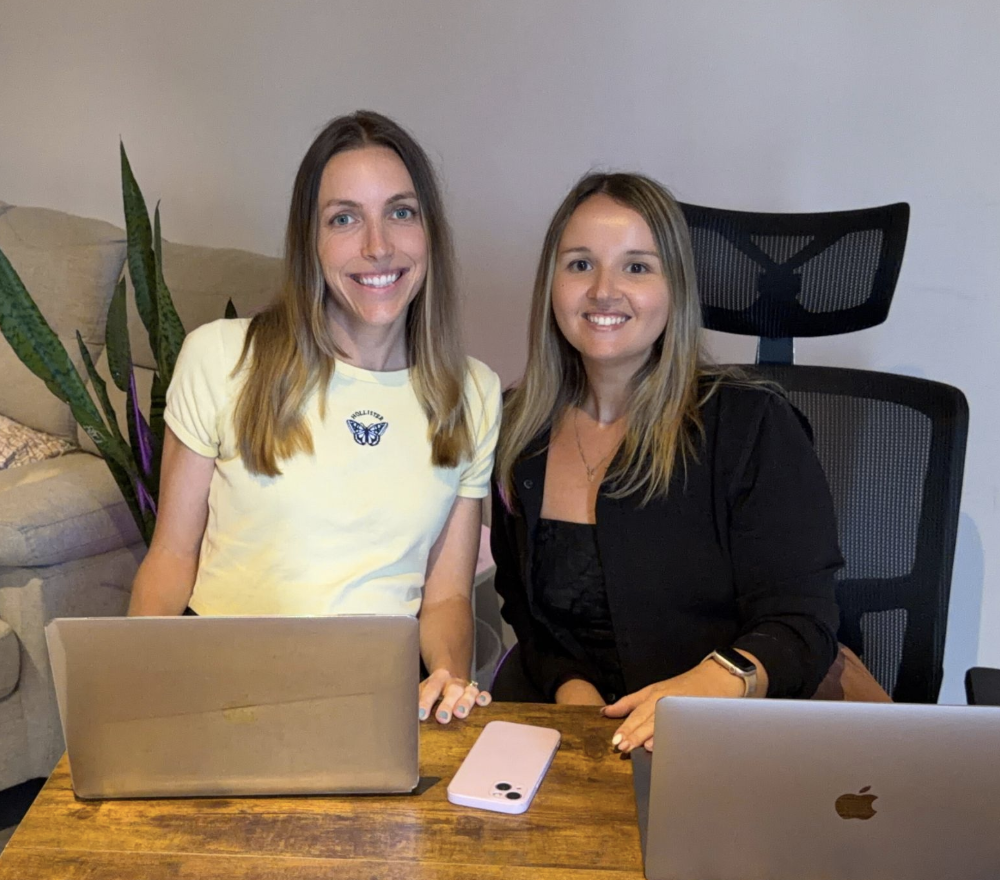
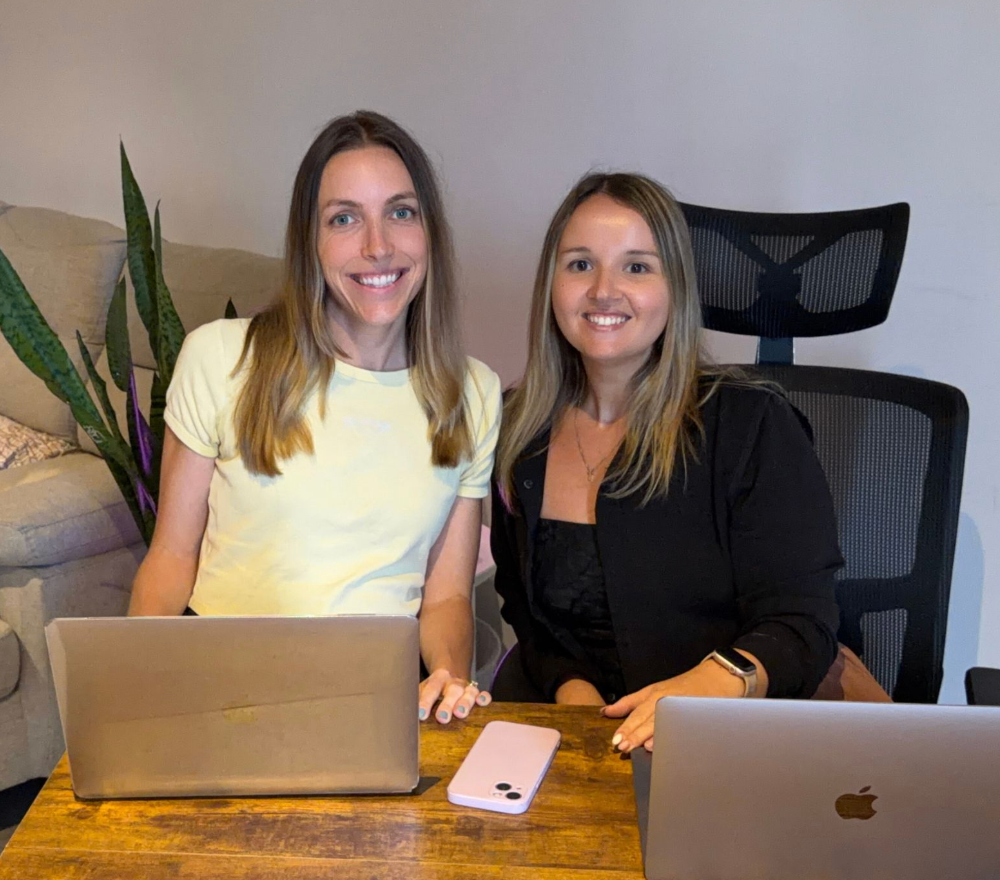
Add financial pre-qualification to lead capture, update hero cards, new founders photo
- Add financial pre-qualification section to /features/lead-capture with lead cards, 4 detail cards, and U.S.-only badge
- Replace 3-tier lead scoring with 2D intent + affordability matrix (3x3 grid)
- Update homepage hero lead cards with dual badges (intent + financial)
- Remove hero form embed snippet
- Update founders photo

diff --git a/app/features/lead-capture/page.tsx b/app/features/lead-capture/page.tsx
@@ -230,13 +230,83 @@ export default function LeadCapturePage() {
           font-size: 9px; font-weight: 600; color: #64748B;
         }
 
-        /* Lead Scoring */
+        /* Financial Pre-Qualification */
+        .lc-finprequal {
+          padding: 100px 0; background: #F8FAFC;
+        }
+        .lc-finprequal-inner {
+          max-width: 1100px; margin: 0 auto; padding: 0 24px;
+        }
+        .lc-finprequal-top {
+          display: grid; grid-template-columns: 1fr 1fr; gap: 60px; align-items: start;
+          margin-bottom: 48px;
+        }
+        .lc-finprequal-label {
+          font-size: 11px; font-weight: 700; text-transform: uppercase;
+          letter-spacing: 1.5px; color: #0E9AC0; margin-bottom: 12px;
+        }
+        .lc-finprequal h2 {
+          font-family: var(--font-jakarta), 'Plus Jakarta Sans', sans-serif;
+          font-size: 36px; font-weight: 800; font-style: normal;
+          color: #0F172A; margin-bottom: 16px; line-height: 1.15;
+        }
+        .lc-finprequal p.desc {
+          font-size: 16px; line-height: 1.7; color: #64748B; margin-bottom: 16px;
+        }
+        .lc-us-badge {
+          display: inline-flex; align-items: center; gap: 6px;
+          font-size: 12px; font-weight: 600; color: #64748B;
+          background: #EFF6FF; border: 1px solid #BFDBFE;
+          padding: 6px 14px; border-radius: 100px;
+        }
+        /* Financial lead cards */
+        .lc-fin-cards { display: flex; flex-direction: column; gap: 12px; }
+        .lc-fin-card {
+          background: #fff; border: 1px solid #E2E8F0; border-radius: 10px; padding: 16px;
+        }
+        .lc-fin-card-badges { display: flex; gap: 6px; margin-bottom: 8px; }
+        .lc-fin-card-intent {
+          display: inline-block; font-size: 9px; font-weight: 700; padding: 3px 10px;
+          border-radius: 100px; text-transform: uppercase; letter-spacing: 0.3px;
+        }
+        .lc-fin-card-intent.hot { background: rgba(34,197,94,0.1); color: #22C55E; }
+        .lc-fin-card-intent.warm { background: rgba(245,158,11,0.1); color: #D97706; }
+        .lc-fin-card-intent.cold { background: rgba(148,163,184,0.15); color: #64748B; }
+        .lc-fin-card-fin {
+          display: inline-flex; align-items: center; gap: 3px;
+          font-size: 9px; font-weight: 700; padding: 3px 10px;
+          border-radius: 100px; text-transform: uppercase; letter-spacing: 0.3px;
+          border-width: 1.5px; border-style: solid;
+        }
+        .lc-fin-card-fin.qualified { border-color: #22C55E; color: #22C55E; }
+        .lc-fin-card-fin.review { border-color: #D97706; color: #D97706; }
+        .lc-fin-card-fin.not-qual { border-color: #94A3B8; color: #94A3B8; }
+        .lc-fin-card-name { font-size: 13px; font-weight: 700; color: #0F172A; margin-bottom: 2px; }
+        .lc-fin-card-detail { font-size: 11px; color: #94A3B8; }
+        .lc-fin-card-action { font-size: 11px; color: #64748B; margin-top: 6px; font-weight: 500; }
+        /* Feature detail cards */
+        .lc-finprequal-grid {
+          display: grid; grid-template-columns: 1fr 1fr; gap: 16px;
+        }
+        .lc-finprequal-card {
+          background: #fff; border: 1px solid #E2E8F0; border-radius: 10px; padding: 24px;
+        }
+        .lc-finprequal-card h4 {
+          font-size: 15px; font-weight: 700; color: #0F172A; margin-bottom: 8px;
+        }
+        .lc-finprequal-card p {
+          font-size: 13px; line-height: 1.6; color: #64748B;
+        }
+
+        /* Smart Lead Scoring (2D Matrix) */
         .lc-scoring-section {
           padding: 100px 0; background: #fff;
         }
         .lc-scoring-inner {
           max-width: 1100px; margin: 0 auto; padding: 0 24px;
-          display: grid; grid-template-columns: 1fr 1fr; gap: 60px; align-items: center;
+        }
+        .lc-scoring-text {
+          max-width: 700px; margin-bottom: 48px;
         }
         .lc-scoring-text h2 {
           font-family: var(--font-jakarta), 'Plus Jakarta Sans', sans-serif;
@@ -246,6 +316,42 @@ export default function LeadCapturePage() {
         .lc-scoring-text p {
           font-size: 16px; line-height: 1.7; color: #64748B;
         }
+        .lc-matrix {
+          background: #fff; border: 1px solid #E2E8F0; border-radius: 12px;
+          overflow: hidden; box-shadow: 0 4px 20px rgba(0,0,0,0.04);
+        }
+        .lc-matrix-header {
+          display: grid; grid-template-columns: 100px repeat(3, 1fr);
+          background: #F8FAFC; border-bottom: 1px solid #E2E8F0;
+        }
+        .lc-matrix-header-cell {
+          padding: 12px 16px; font-size: 11px; font-weight: 700;
+          text-transform: uppercase; letter-spacing: 0.5px; color: #64748B;
+          text-align: center;
+        }
+        .lc-matrix-header-cell:first-child { text-align: left; }
+        .lc-matrix-row {
+          display: grid; grid-template-columns: 100px repeat(3, 1fr);
+          border-bottom: 1px solid #F1F5F9;
+        }
+        .lc-matrix-row:last-child { border-bottom: none; }
+        .lc-matrix-label {
+          padding: 16px; font-size: 12px; font-weight: 700;
+          display: flex; align-items: center; gap: 6px;
+        }
+        .lc-matrix-label-dot {
+          width: 8px; height: 8px; border-radius: 50%;
+        }
+        .lc-matrix-label-dot.hot { background: #22C55E; }
+        .lc-matrix-label-dot.warm { background: #F59E0B; }
+        .lc-matrix-label-dot.cold { background: #94A3B8; }
+        .lc-matrix-cell {
+          padding: 14px 12px; text-align: center; font-size: 11px;
+          font-weight: 600; color: #0F172A; border-left: 1px solid #F1F5F9;
+        }
+        .lc-matrix-cell.high { background: rgba(34,197,94,0.06); color: #15803D; }
+        .lc-matrix-cell.mid { background: rgba(245,158,11,0.04); color: #B45309; }
+        .lc-matrix-cell.low { background: rgba(148,163,184,0.06); color: #64748B; }
         .lc-pipeline-mockup {
           background: #fff; border-radius: 12px; overflow: hidden;
           box-shadow: 0 20px 60px rgba(0,0,0,0.08); border: 1px solid #E2E8F0;
@@ -400,21 +506,25 @@ export default function LeadCapturePage() {
 
         /* Responsive */
         @media (max-width: 900px) {
-          .lc-hero-inner, .lc-tab-content, .lc-scoring-inner, .lc-roi-inner {
+          .lc-hero-inner, .lc-tab-content, .lc-roi-inner {
             grid-template-columns: 1fr; gap: 40px;
           }
+          .lc-finprequal-top { grid-template-columns: 1fr; gap: 32px; }
+          .lc-finprequal-grid { grid-template-columns: 1fr; }
+          .lc-matrix-header, .lc-matrix-row { grid-template-columns: 80px repeat(3, 1fr); }
           .lc-hero h1 { font-size: 34px; }
           .lc-tabs-title { font-size: 30px; }
           .lc-tab-nav { flex-direction: column; align-items: center; }
-          .lc-pipeline-body { flex-direction: column; }
         }
         @media (max-width: 640px) {
           .lc-hero { padding: 140px 0 60px; }
           .lc-hero h1 { font-size: 28px; }
           .lc-hero p { font-size: 15px; }
-          .lc-tabs-section, .lc-scoring-section, .lc-roi-section { padding: 60px 0; }
+          .lc-tabs-section, .lc-scoring-section, .lc-roi-section, .lc-finprequal { padding: 60px 0; }
           .lc-tabs-title { font-size: 26px; }
-          .lc-scoring-text h2, .lc-roi-text h2 { font-size: 28px; }
+          .lc-scoring-text h2, .lc-roi-text h2, .lc-finprequal h2 { font-size: 28px; }
+          .lc-matrix-cell { font-size: 9px; padding: 10px 6px; }
+          .lc-matrix-label { font-size: 10px; padding: 10px 8px; }
           .lc-roi-calc { padding: 24px; }
           .lc-roi-result-value { font-size: 28px; }
           .lc-roi-slider { width: 100px; }
@@ -615,70 +725,89 @@ export default function LeadCapturePage() {
           </div>
         </section>
 
-        {/* Lead Scoring */}
+        {/* Financial Pre-Qualification */}
+        <section className="lc-finprequal" id="financial-prequalification">
+          <div className="lc-finprequal-inner">
+            <div className="lc-finprequal-top">
+              <div>
+                <div className="lc-finprequal-label">Financial pre-qualification</div>
+                <h2>Know if they can afford treatment before the call.</h2>
+                <p className="desc">Stem cell procedures run $5,000 to $25,000+ with no insurance coverage. Your team shouldn&apos;t spend 30 minutes on a consultation only to hear &ldquo;I need to think about it&rdquo; because the patient can&apos;t afford it. ClinicTech runs a soft-pull financial pre-qualification silently during intake, so your team sees affordability signals alongside every lead. No impact on the patient&apos;s credit score. No friction in the booking flow.</p>
+                <div className="lc-us-badge">&#127482;&#127480; Available for U.S.-based leads</div>
+              </div>
+              <div className="lc-fin-cards">
+                <div className="lc-fin-card">
+                  <div className="lc-fin-card-badges"><span className="lc-fin-card-intent hot">Hot</span><span className="lc-fin-card-fin qualified">Qualified</span></div>
+                  <div className="lc-fin-card-name">Sarah M.</div>
+                  <div className="lc-fin-card-detail">Knee Stem Cell Therapy | $15,000</div>
+                  <div className="lc-fin-card-action">Completed intake 3 min ago. Auto follow-up sent. Consultation auto-booked.</div>
+                </div>
+                <div className="lc-fin-card">
+                  <div className="lc-fin-card-badges"><span className="lc-fin-card-intent warm">Warm</span><span className="lc-fin-card-fin review">Review</span></div>
+                  <div className="lc-fin-card-name">Michael T.</div>
+                  <div className="lc-fin-card-detail">PRP + Stem Cell Combo | $22,000</div>
+                  <div className="lc-fin-card-action">Abandoned at step 3. Routed to financial coordinator. Payment plan info sent.</div>
+                </div>
+                <div className="lc-fin-card">
+                  <div className="lc-fin-card-badges"><span className="lc-fin-card-intent cold">Cold</span><span className="lc-fin-card-fin not-qual">Not Qualified</span></div>
+                  <div className="lc-fin-card-name">Jennifer K.</div>
+                  <div className="lc-fin-card-detail">General Inquiry | $8,000</div>
+                  <div className="lc-fin-card-action">Email captured. Entered 90-day drip with financing resources.</div>
+                </div>
+              </div>
+            </div>
+            <div className="lc-finprequal-grid">
+              <div className="lc-finprequal-card">
+                <h4>Runs during intake</h4>
+                <p>The soft-pull check runs silently while the patient fills out your intake form. No extra steps, no separate application, no SSN field. The patient experience is unchanged.</p>
+              </div>
+              <div className="lc-finprequal-card">
+                <h4>Affordability signals, not credit scores</h4>
+                <p>Your team sees a simple badge: Qualified, Review, or Not Qualified. No interpreting credit scores or debt ratios. The system handles the logic based on your procedure pricing.</p>
+              </div>
+              <div className="lc-finprequal-card">
+                <h4>Route and prioritize automatically</h4>
+                <p>Qualified leads go straight to your consultation calendar. Review leads get routed to a financial coordinator with payment plan info. Unqualified leads enter a different sequence with financing resources.</p>
+              </div>
+              <div className="lc-finprequal-card">
+                <h4>No impact on patient credit</h4>
+                <p>Soft pulls don&apos;t affect the patient&apos;s credit score and aren&apos;t visible to other lenders. Same type of check banks use for pre-approval offers. FCRA compliant.</p>
+              </div>
+            </div>
+          </div>
+        </section>
+
+        {/* Smart Lead Scoring - 2D Matrix */}
         <section className="lc-scoring-section">
           <div className="lc-scoring-inner">
             <div className="lc-scoring-text">
-              <h2>Know exactly who to call first.</h2>
-              <p>Every lead is automatically scored as Hot, Warm, or Cold based on how they engaged, what condition they&apos;re inquiring about, and how far they got in the intake. Your team sees a prioritized pipeline, not a messy inbox.</p>
+              <h2>Intent and affordability. See both before the call.</h2>
+              <p>Every lead is automatically scored on two dimensions. Intent scoring (Hot, Warm, Cold) is based on how they engaged, what condition they&apos;re inquiring about, and how far they got in the intake. Financial qualification (Qualified, Review, Not Qualified) runs a soft-pull affordability check on U.S.-based leads in the background. Your team sees a prioritized pipeline with both signals, so the highest-value leads always get attention first.</p>
             </div>
-            <div>
-              <div className="lc-pipeline-mockup">
-                <div className="lc-pipeline-header">
-                  <div className="lc-toolbar-dots"><span></span><span></span><span></span></div>
-                  Lead Pipeline
-                </div>
-                <div className="lc-pipeline-body">
-                  <div className="lc-pipe-col">
-                    <div className="lc-pipe-col-header hot">
-                      Hot <span className="lc-pipe-count">4</span>
-                    </div>
-                    <div className="lc-pipe-card">
-                      <div className="lc-pipe-card-name">Jennifer M.</div>
-                      <div className="lc-pipe-card-detail">Knee Stem Cell</div>
-                      <div className="lc-pipe-card-value">$12,000</div>
-                      <div className="lc-pipe-card-score hot">Score: 92</div>
-                    </div>
-                    <div className="lc-pipe-card">
-                      <div className="lc-pipe-card-name">Robert K.</div>
-                      <div className="lc-pipe-card-detail">Hip Regeneration</div>
-                      <div className="lc-pipe-card-value">$18,000</div>
-                      <div className="lc-pipe-card-score hot">Score: 87</div>
-                    </div>
-                  </div>
-                  <div className="lc-pipe-col">
-                    <div className="lc-pipe-col-header warm">
-                      Warm <span className="lc-pipe-count">6</span>
-                    </div>
-                    <div className="lc-pipe-card">
-                      <div className="lc-pipe-card-name">Sarah L.</div>
-                      <div className="lc-pipe-card-detail">Shoulder PRP</div>
-                      <div className="lc-pipe-card-value">$6,500</div>
-                      <div className="lc-pipe-card-score warm">Score: 64</div>
-                    </div>
-                    <div className="lc-pipe-card">
-                      <div className="lc-pipe-card-name">Michael T.</div>
-                      <div className="lc-pipe-card-detail">Consultation</div>
-                      <div className="lc-pipe-card-value">$5,000</div>
-                      <div className="lc-pipe-card-score warm">Score: 51</div>
-                    </div>
-                  </div>
-                  <div className="lc-pipe-col">
-                    <div className="lc-pipe-col-header cold">
-                      Cold <span className="lc-pipe-count">12</span>
-                    </div>
-                    <div className="lc-pipe-card">
-                      <div className="lc-pipe-card-name">Lisa W.</div>
-                      <div className="lc-pipe-card-detail">General Inquiry</div>
-                      <div className="lc-pipe-card-score cold">Score: 23</div>
-                    </div>
-                    <div className="lc-pipe-card">
-                      <div className="lc-pipe-card-name">David R.</div>
-                      <div className="lc-pipe-card-detail">Info Request</div>
-                      <div className="lc-pipe-card-score cold">Score: 18</div>
-                    </div>
-                  </div>
-                </div>
+            <div className="lc-matrix">
+              <div className="lc-matrix-header">
+                <div className="lc-matrix-header-cell">Intent</div>
+                <div className="lc-matrix-header-cell">Qualified</div>
+                <div className="lc-matrix-header-cell">Review</div>
+                <div className="lc-matrix-header-cell">Not Qualified</div>
+              </div>
+              <div className="lc-matrix-row">
+                <div className="lc-matrix-label"><span className="lc-matrix-label-dot hot"></span> Hot</div>
+                <div className="lc-matrix-cell high">Auto-book consultation</div>
+                <div className="lc-matrix-cell mid">Route to financial coordinator</div>
+                <div className="lc-matrix-cell low">Send financing resources</div>
+              </div>
+              <div className="lc-matrix-row">
+                <div className="lc-matrix-label"><span className="lc-matrix-label-dot warm"></span> Warm</div>
+                <div className="lc-matrix-cell mid">Priority nurture sequence</div>
+                <div className="lc-matrix-cell mid">Nurture + payment plan info</div>
+                <div className="lc-matrix-cell low">Standard nurture</div>
+              </div>
+              <div className="lc-matrix-row">
+                <div className="lc-matrix-label"><span className="lc-matrix-label-dot cold"></span> Cold</div>
+                <div className="lc-matrix-cell low">Add to re-engagement</div>
+                <div className="lc-matrix-cell low">90-day drip</div>
+                <div className="lc-matrix-cell low">Low priority drip</div>
               </div>
             </div>
           </div>

diff --git a/app/page.tsx b/app/page.tsx
@@ -81,6 +81,7 @@ export default function LandingPage() {
   const [activeFeature, setActiveFeature] = useState(0);
   const [travelView, setTravelView] = useState<'patient' | 'admin'>('patient');
   const [heroTab, setHeroTab] = useState(0);
+  const [bannerVisible, setBannerVisible] = useState(true);
   const featureAutoRef = useRef<ReturnType<typeof setInterval> | null>(null);
 
   const features = useMemo(() => [
@@ -2530,6 +2531,40 @@ footer .container {
 .crm-revealed { animation: crmReveal 0.8s cubic-bezier(0.4, 0, 0.2, 1) forwards; }
 @keyframes crmReveal { 0% { opacity: 0; transform: translateY(8px); } 100% { opacity: 1; transform: translateY(0); } }
 @media (prefers-reduced-motion: reduce) { .hero-dna { display: none; } .crm-hidden { opacity: 1; transform: none; } }
+/* ===== ANNOUNCEMENT BANNER ===== */
+.announce-banner {
+  position: fixed; top: 0; left: 0; right: 0; z-index: 101;
+  background: #1E293B; color: #fff; padding: 10px 24px;
+  display: flex; align-items: center; justify-content: center; gap: 8px;
+  font-size: 13px; font-weight: 500;
+}
+.announce-banner a {
+  color: #5EC4E3; font-weight: 700; text-decoration: none;
+  transition: color 0.2s;
+}
+.announce-banner a:hover { color: #7DD4ED; }
+.announce-banner-close {
+  position: absolute; right: 16px; top: 50%; transform: translateY(-50%);
+  background: none; border: none; color: rgba(255,255,255,0.5);
+  font-size: 18px; cursor: pointer; padding: 4px 8px; line-height: 1;
+}
+.announce-banner-close:hover { color: #fff; }
+.announce-banner + .site-nav,
+.has-banner .site-nav { top: 38px; }
+.has-banner .hero-tabs-section { padding-top: 218px; }
+.has-banner .site-nav-mobile-menu { padding-top: 158px; }
+
+/* Financial badges */
+.fin-badge {
+  display: inline-flex; align-items: center; gap: 3px;
+  font-size: 9px; font-weight: 700; padding: 2px 8px;
+  border-radius: 100px; text-transform: uppercase; letter-spacing: 0.3px;
+  border-width: 1.5px; border-style: solid;
+}
+.fin-badge.qualified { border-color: #22C55E; color: #22C55E; background: transparent; }
+.fin-badge.review { border-color: #D97706; color: #D97706; background: transparent; }
+.fin-badge.not-qualified { border-color: #94A3B8; color: #94A3B8; background: transparent; }
+
 /* ===== HERO TABS ===== */
 .hero-tabs-section {
   position: relative; padding: 180px 0 80px; background: #fff; overflow: hidden;
@@ -2996,27 +3031,23 @@ footer .container {
                     <span>Contact Info</span><span>Condition</span><span>History</span><span>Schedule</span>
                   </div>
                   <div className="ht-continue-btn">Continue</div>
-                  <div className="ht-embed">
-                    <div className="ht-embed-label">Embed on your website</div>
-                    <div className="ht-embed-code">&lt;script src=&quot;clinictech.io/forms/your-clinic&quot;&gt;&lt;/script&gt;</div>
-                  </div>
                 </div>
               </div>
               <div className="ht-lead-cards">
                 <div className="ht-lead-card">
-                  <div className="ht-lead-badge hot">Hot lead</div>
+                  <div style={{display:"flex",gap:"6px",marginBottom:"8px"}}><span className="ht-lead-badge hot">Hot</span><span className="fin-badge qualified">Qualified</span></div>
                   <div className="ht-lead-name">Sarah M. - Knee stem cell</div>
-                  <div className="ht-lead-desc">Completed form 2 min ago. Auto follow-up sent.</div>
+                  <div className="ht-lead-desc">Completed form 2 min ago. Consultation auto-booked.</div>
                 </div>
                 <div className="ht-lead-card">
-                  <div className="ht-lead-badge warm">Warm lead</div>
+                  <div style={{display:"flex",gap:"6px",marginBottom:"8px"}}><span className="ht-lead-badge warm">Warm</span><span className="fin-badge review">Review</span></div>
                   <div className="ht-lead-name">Michael T. - PRP inquiry</div>
-                  <div className="ht-lead-desc">Abandoned at step 2. Entered 30-day nurture sequence.</div>
+                  <div className="ht-lead-desc">Abandoned at step 2. Routed to financial coordinator.</div>
                 </div>
                 <div className="ht-lead-card">
-                  <div className="ht-lead-badge cold">Cold lead</div>
+                  <div style={{display:"flex",gap:"6px",marginBottom:"8px"}}><span className="ht-lead-badge cold">Cold</span><span className="fin-badge not-qualified">Not Qualified</span></div>
                   <div className="ht-lead-name">Jennifer K. - General inquiry</div>
-                  <div className="ht-lead-desc">Email captured. Entered 90-day drip.</div>
+                  <div className="ht-lead-desc">Email captured. Sent financing resources.</div>
                 </div>
               </div>
             </div>
